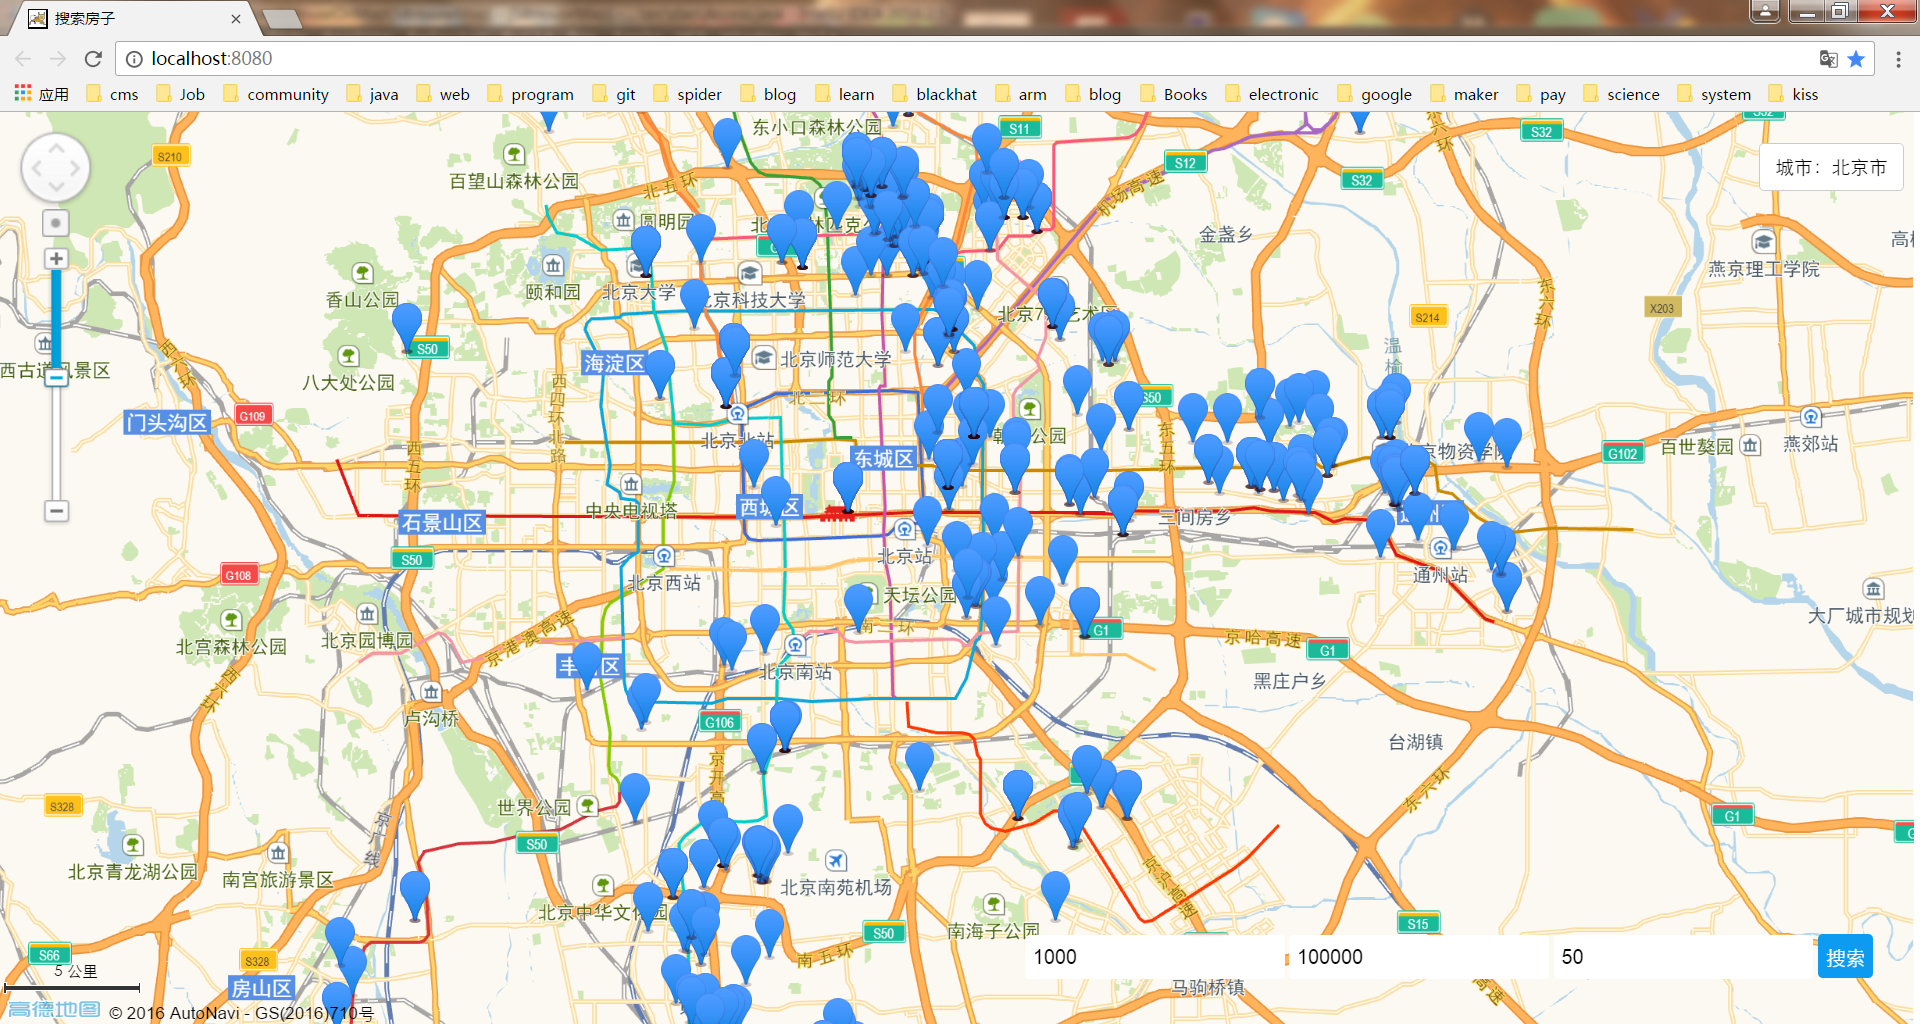
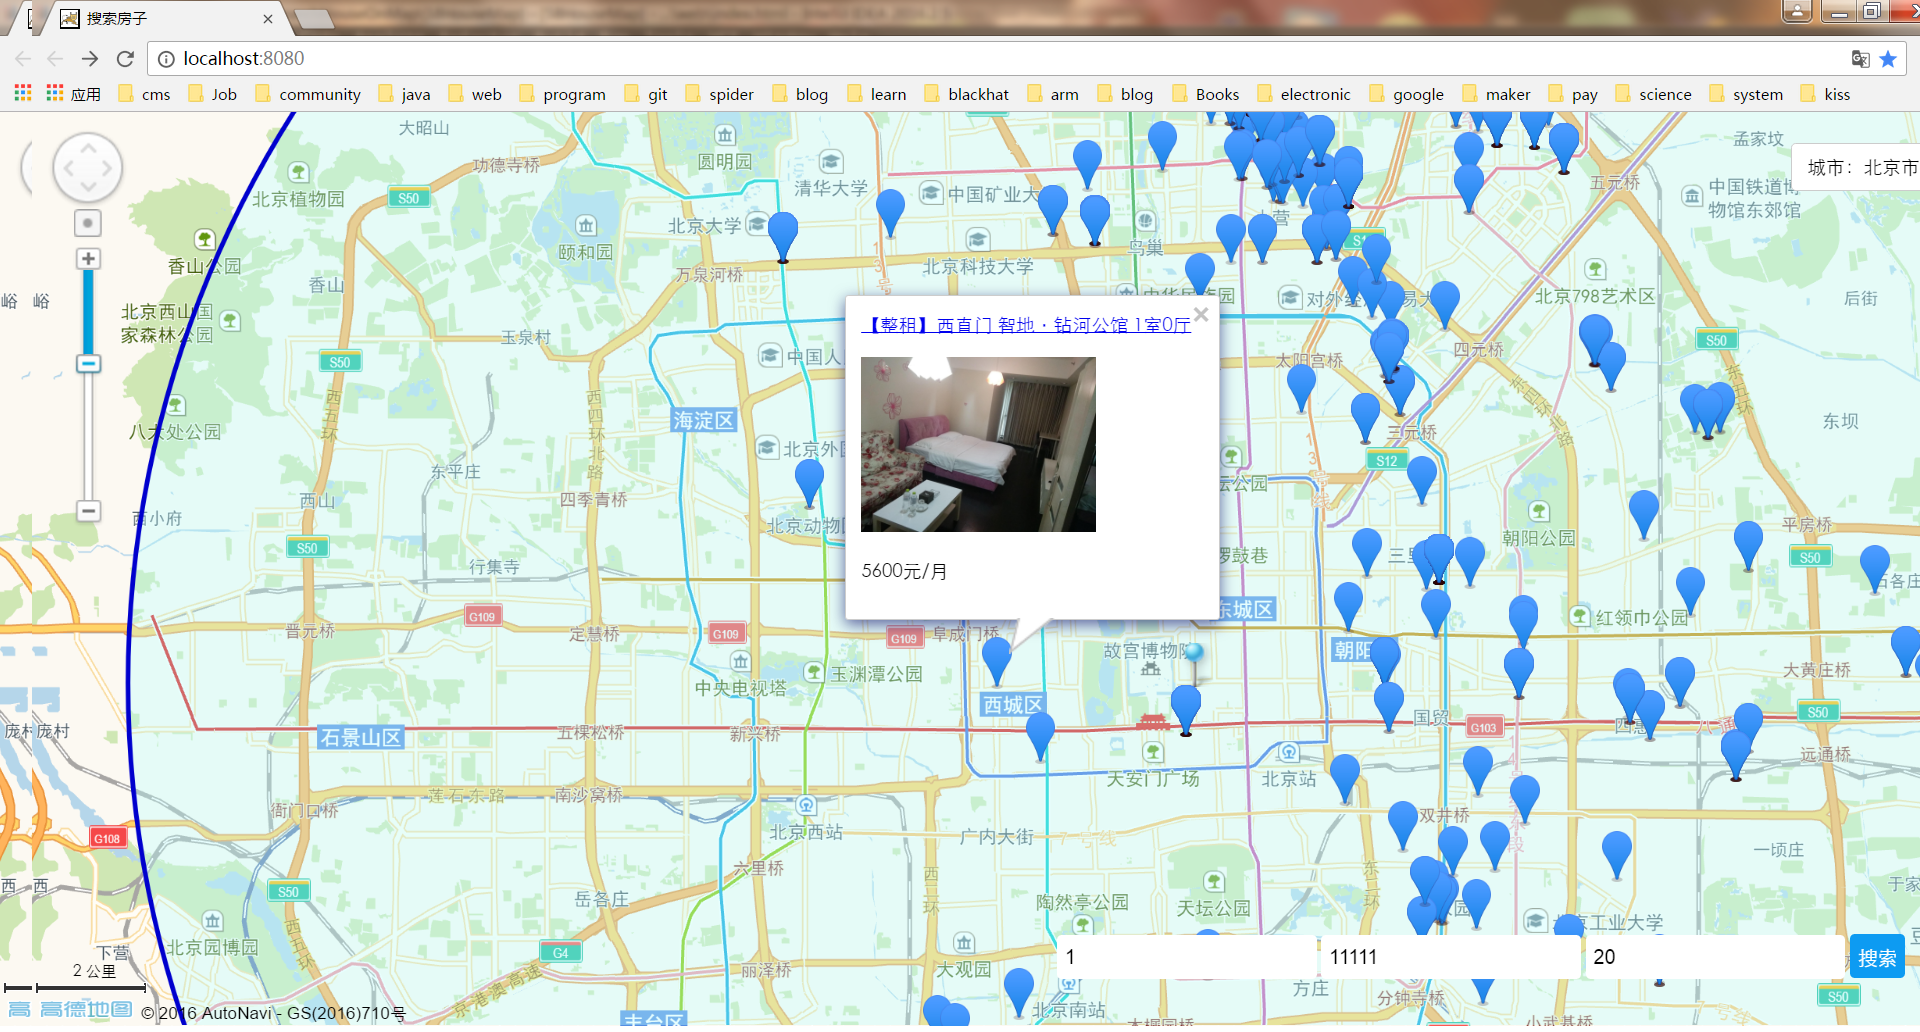
添加了标记点击事件响应函数。

diff --git a/58HouseMap/web/index.html b/58HouseMap/web/index.html
@@ -34,21 +34,17 @@
     <input id='radius' class="inputtext" type='text' placeholder='半径(KM)'>
     <input id="query" class="button" value="搜索" type="button"/>
 </div>
-
-
 <script type="text/javascript">
-
     var lat = '';
     var lon = '';
-
     var map = new AMap.Map('container', {
         resizeEnable: true,
         zoom: 14,
         center: [116.397428, 39.90923]
     });
 
-    AMap.plugin(['AMap.ToolBar', 'AMap.Scale'], function () {
-        var toolBar = new AMap.ToolBar();                   //工具条和比例尺
+    AMap.plugin(['AMap.ToolBar', 'AMap.Scale'], function () {           //工具条和比例尺
+        var toolBar = new AMap.ToolBar();
         var scale = new AMap.Scale();
         map.addControl(toolBar);
         map.addControl(scale);
@@ -63,36 +59,41 @@
         });
     }
 
-    var marker;
-    var markers=[];
-    var circle;
-
     var icon = new AMap.Icon({
         image: './img/pointer.png',
         size: new AMap.Size(28, 28)
     });
 
-
+    var markers=[];
     function clearMarkers(){
         if(markers){                                //如果多个点标记已经出现，就把他们都删除
-            for(var i=0;i<markers.length;i++){
-                markers[i].setMap(null);
-            }
+            map.remove(markers);
         }
     }
 
+    var marker;
     function addmarkers(data) {
         for(var i=0;i<data.length;i++){
-            var point=new AMap.Marker({
+            marker=new AMap.Marker({
                 map:map,
                 position:[data[i].lon,data[i].lat],
                 offset: new AMap.Pixel(-17, -42), //相对于基点的偏移位置
             });
-            markers.push(point);
+            marker.content = "<a target=\"_blank\" href='"+data[i].URL+"'>"+data[i].title+"</a><p><img width='150px' src='"+data[i].imgs.split(",")[0]+"'></p><p>"+data[i].price+data[i].unit+"</p>";
+            marker.on('click', _onClick);                  //监听对象的事件并且绑定函数
+            marker.emit('click', {target: marker});
+            markers.push(marker);
         }
         console.log("符合条件的公寓数："+i);
     }
 
+    var infoWindow = new AMap.InfoWindow({offset: new AMap.Pixel(0, -30)});
+    var _onClick = function (e) {               //搜索结果的点击函数
+        infoWindow.setContent(e.target.content);
+        infoWindow.open(map, e.target.getPosition());
+    }
+
+    var circle;
     function clearCircle(){
          if(circle){                                 //清除圆
             circle.setMap(null);
@@ -100,49 +101,47 @@
     }
 
     function addCircle(radius){
-        circle = new AMap.Circle({                  //创建一个圆的效果
-            center: [lon, lat],
-            redius: radius,
-            fillOpacity:0.1,
-            fillColor:'#09f',
-            strokeColor:'#09f',
-            strokeWeight:1
+        circle = new AMap.Circle({
+            center: new AMap.LngLat(lon, lat),// 圆心位置
+            radius: radius*1000, //半径
+            strokeColor: "#0000CD", //线颜色
+            strokeOpacity: 1, //线透明度
+            strokeWeight: 3, //线粗细度
+            fillColor: "#BBFFFF", //填充颜色
+            fillOpacity: 0.35//填充透明度
         });
         circle.setMap(map);
-
     }
 
-    function changeMarker() {
+    var point;
+    function changePointer() {
         clearMarkers();
         clearCircle();
-        if (marker) {                               //如果已经点击过，就在地图上更新位置
-            marker.setPosition([lon, lat]);
+        if (point) {                               //如果已经点击过，就在地图上更新位置
+            point.setPosition([lon, lat]);
         } else {
-            marker = new AMap.Marker({ //添加自定义点标记
+            point = new AMap.Marker({ //添加自定义点标记
                 map: map,
                 position: [lon, lat], //基点位置
                 offset: new AMap.Pixel(-15, -25), //相对于基点的偏移位置 x+right-left,y+down-up
                 icon:icon
             });
         }
-        marker.setMap(map);
+        point.setMap(map);
     }
 
     var clickEventListener = map.on('click', function (e) {                 //选取地点的点击函数
         lat = e.lnglat.getLat();
         lon = e.lnglat.getLng();
-        clearMarkers();
-        changeMarker();
+        changePointer();
     });
-
-
 
     AMap.event.addDomListener(document.getElementById('query'), 'click', function () {            //监听id为pantoBtn的元素的点击事件
         var minprice = document.getElementById('minprice').value;
         var maxprice = document.getElementById('maxprice').value;
         var radius = document.getElementById('radius').value;
         if (!minprice || !maxprice || !radius) {
-            alert("请填写房子信息");
+            alert("请填写房子条件");
         } else if (!lon|!lat) {
             alert("请重新选取坐标");
         } else {
@@ -151,15 +150,20 @@
                 if(data){
                     addmarkers(data);
                     clearCircle();
-                    addCircle(radius);
+                    addCircle(parseInt(radius));
                 }else{
                     alert("在此条件下没有结果");
                 }
             });
         }
     });
+
+
+
+
+
+
+
     </script>
-
-
 </body>
 </html>
